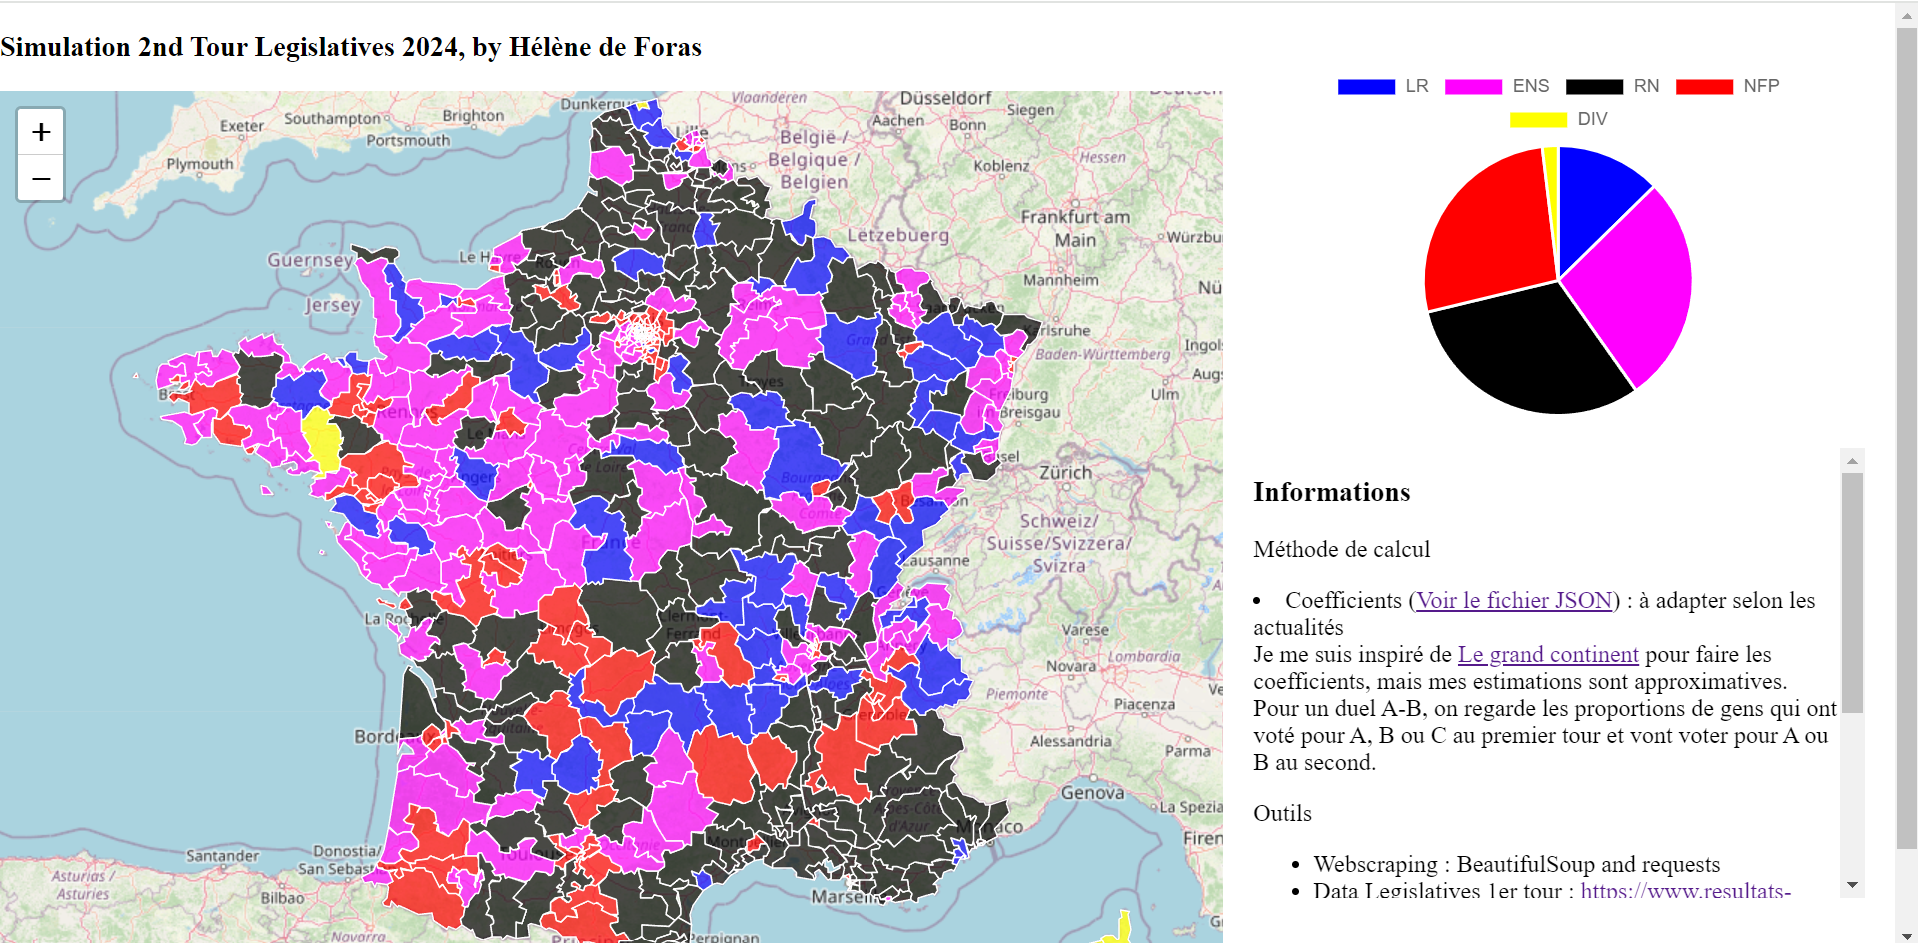
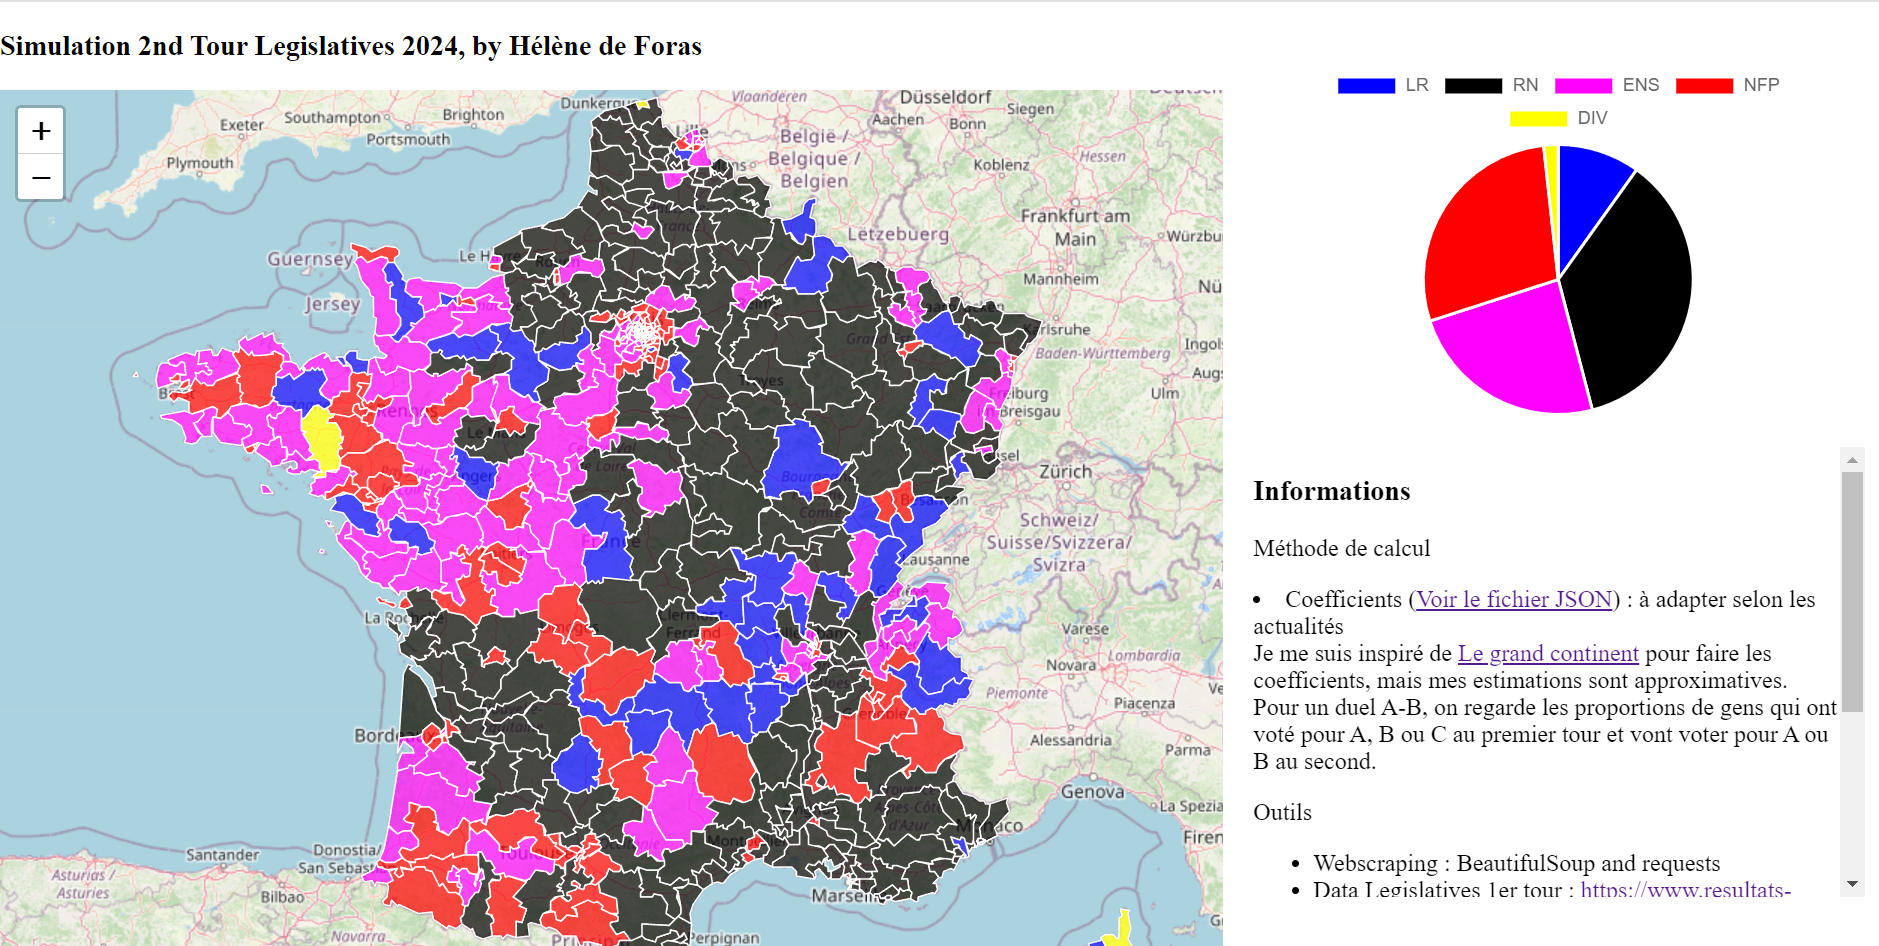
Ajout des desistements

diff --git a/Preprocessing.py b/Preprocessing.py
@@ -43,6 +43,227 @@ class PreprocessingCSV():
     
     def desistements(self):
         df = self.df_nuance
+        df.loc[df["Liste des candidats"] == "M. Sébastien GUERAUD", "Elu(e)"] = -1
+        df.loc[df["Liste des candidats"] == "M. Maxime MEYER", "Elu(e)"] = -1
+        df.loc[df["Liste des candidats"] == "M. Christian JOLIE", "Elu(e)"] = -1
+        df.loc[df["Liste des candidats"] == "Mme Charline LIOTIER", "Elu(e)"] = -1
+        df.loc[df["Liste des candidats"] == "Mme Aline JEUDI", "Elu(e)"] = -1
+        df.loc[df["Liste des candidats"] == "M. Benoit GAUVAN", "Elu(e)"] = -1
+        df.loc[df["Liste des candidats"] == "Mme Dominique BLANC", "Elu(e)"] = -1
+        df.loc[df["Liste des candidats"] == "Mme Pascale BOYER", "Elu(e)"] = -1
+        df.loc[df["Liste des candidats"] == "M. Sébastien FINE", "Elu(e)"] = -1
+        df.loc[df["Liste des candidats"] == "M. Philippe PRADAL", "Elu(e)"] = -1
+        df.loc[df["Liste des candidats"] == "Mme Christine BREYTON", "Elu(e)"] = -1
+        df.loc[df["Liste des candidats"] == "M. Léon THEBAULT", "Elu(e)"] = -1
+        df.loc[df["Liste des candidats"] == "M. Samuel DEGUARA", "Elu(e)"] = -1
+        df.loc[df["Liste des candidats"] == "M. Richard BOUIGUE", "Elu(e)"] = -1
+        df.loc[df["Liste des candidats"] == "M. Jimmy BESSAIH", "Elu(e)"] = -1
+        df.loc[df["Liste des candidats"] == "M. Mohamed LAQHILA", "Elu(e)"] = -1
+        df.loc[df["Liste des candidats"] == "Mme Claire PITOLLAT", "Elu(e)"] = -1
+        df.loc[df["Liste des candidats"] == "M. Allan POPELARD", "Elu(e)"] = -1
+        df.loc[df["Liste des candidats"] == "M. Lionel ROYER-PERREAUT", "Elu(e)"] = -1
+        df.loc[df["Liste des candidats"] == "M. Alexandre BEDDOCK", "Elu(e)"] = -1
+        df.loc[df["Liste des candidats"] == "Mme Ludivine DAOUDI", "Elu(e)"] = -1
+        df.loc[df["Liste des candidats"] == "M. Pierre MOURARET", "Elu(e)"] = -1
+        df.loc[df["Liste des candidats"] == "M. Thomas DUPONT-FEDERICI", "Elu(e)"] = -1
+        df.loc[df["Liste des candidats"] == "M. Noé GAUCHARD", "Elu(e)"] = -1
+        df.loc[df["Liste des candidats"] == "Mme Valérie RUEDA", "Elu(e)"] = -1
+        df.loc[df["Liste des candidats"] == "Mme Carole BALLU", "Elu(e)"] = -1
+        df.loc[df["Liste des candidats"] == "M. Gwenhaël FRANÇOIS", "Elu(e)"] = -1
+        df.loc[df["Liste des candidats"] == "Mme Anne-Laure BABAULT", "Elu(e)"] = -1
+        df.loc[df["Liste des candidats"] == "M. Jean-Philippe ARDOUIN", "Elu(e)"] = -1
+        df.loc[df["Liste des candidats"] == "Mme Anne BRACHET", "Elu(e)"] = -1
+        df.loc[df["Liste des candidats"] == "M. Hugo LEFELLE", "Elu(e)"] = -1
+        df.loc[df["Liste des candidats"] == "M. Gabriel BEHAGHEL", "Elu(e)"] = -1
+        df.loc[df["Liste des candidats"] == "Mme Amandine DEWAELE", "Elu(e)"] = -1
+        df.loc[df["Liste des candidats"] == "M. Benoît BORDAT", "Elu(e)"] = -1
+        df.loc[df["Liste des candidats"] == "Mme Fadila KHATTABI", "Elu(e)"] = -1
+        df.loc[df["Liste des candidats"] == "Mme Valérie JACQ", "Elu(e)"] = -1
+        df.loc[df["Liste des candidats"] == "M. Jérôme FLACHE", "Elu(e)"] = -1
+        df.loc[df["Liste des candidats"] == "M. Jérémy DAUPHIN", "Elu(e)"] = -1
+        df.loc[df["Liste des candidats"] == "M. Antoine RAVARD", "Elu(e)"] = -1
+        df.loc[df["Liste des candidats"] == "M. Cyril JOBIC", "Elu(e)"] = -1
+        df.loc[df["Liste des candidats"] == "M. Clément TONON", "Elu(e)"] = -1
+        df.loc[df["Liste des candidats"] == "M. Michel DELPON", "Elu(e)"] = -1
+        df.loc[df["Liste des candidats"] == "M. Jean-Pierre CUBERTAFON", "Elu(e)"] = -1
+        df.loc[df["Liste des candidats"] == "M. Benoît VUILLEMIN", "Elu(e)"] = -1
+        df.loc[df["Liste des candidats"] == "Mme Virginie DAYET", "Elu(e)"] = -1
+        df.loc[df["Liste des candidats"] == "M. Philippe GAUTIER", "Elu(e)"] = -1
+        df.loc[df["Liste des candidats"] == "M. Nicolas MICHEL", "Elu(e)"] = -1
+        df.loc[df["Liste des candidats"] == "M. Lander MARCHIONNI", "Elu(e)"] = -1
+        df.loc[df["Liste des candidats"] == "Mme Christine LE BONTÉ", "Elu(e)"] = -1
+        df.loc[df["Liste des candidats"] == "M. Pierre-Yves JOURDAIN", "Elu(e)"] = -1
+        df.loc[df["Liste des candidats"] == "M. Jean-François BRIDET", "Elu(e)"] = -1
+        df.loc[df["Liste des candidats"] == "Mme Nadia FAVERIS", "Elu(e)"] = -1
+        df.loc[df["Liste des candidats"] == "M. Pierre SMOLARZ", "Elu(e)"] = -1
+        df.loc[df["Liste des candidats"] == "Mme Gladys GRELAUD", "Elu(e)"] = -1
+        df.loc[df["Liste des candidats"] == "M. Sébastien MIOSSEC", "Elu(e)"] = -1
+        df.loc[df["Liste des candidats"] == "M. Thomas LE BON", "Elu(e)"] = -1
+        df.loc[df["Liste des candidats"] == "M. Erwan CROUAN", "Elu(e)"] = -1
+        df.loc[df["Liste des candidats"] == "Mme Sylvie JOUART", "Elu(e)"] = -1
+        df.loc[df["Liste des candidats"] == "Mme Valérie ROUVERAND", "Elu(e)"] = -1
+        df.loc[df["Liste des candidats"] == "M. Christian BAUME", "Elu(e)"] = -1
+        df.loc[df["Liste des candidats"] == "M. Aurélien COLSON", "Elu(e)"] = -1
+        df.loc[df["Liste des candidats"] == "Mme Sylvie ESPAGNOLLE", "Elu(e)"] = -1
+        df.loc[df["Liste des candidats"] == "Mme Dominique FAURE", "Elu(e)"] = -1
+        df.loc[df["Liste des candidats"] == "Mme Monique IBORRA", "Elu(e)"] = -1
+        df.loc[df["Liste des candidats"] == "Mme Elisabeth TOUTUT-PICARD", "Elu(e)"] = -1
+        df.loc[df["Liste des candidats"] == "M. Pascal LEVIEUX", "Elu(e)"] = -1
+        df.loc[df["Liste des candidats"] == "M. Pascal BOURGOIS", "Elu(e)"] = -1
+        df.loc[df["Liste des candidats"] == "M. Pascal LAVERGNE", "Elu(e)"] = -1
+        df.loc[df["Liste des candidats"] == "M. Stéphane SENCE", "Elu(e)"] = -1
+        df.loc[df["Liste des candidats"] == "Mme Marylène FAURE", "Elu(e)"] = -1
+        df.loc[df["Liste des candidats"] == "Mme Corinne MARTINEZ", "Elu(e)"] = -1
+        df.loc[df["Liste des candidats"] == "Mme Patricia MIRALLES", "Elu(e)"] = -1
+        df.loc[df["Liste des candidats"] == "Mme Laurence CRISTOL", "Elu(e)"] = -1
+        df.loc[df["Liste des candidats"] == "M. Jean-François ELIAOU", "Elu(e)"] = -1
+        df.loc[df["Liste des candidats"] == "M. Patrick VIGNAL", "Elu(e)"] = -1
+        df.loc[df["Liste des candidats"] == "Mme Anne PATAULT", "Elu(e)"] = -1
+        df.loc[df["Liste des candidats"] == "M. Gilles RENAULT", "Elu(e)"] = -1
+        df.loc[df["Liste des candidats"] == "Mme Elsa LAFAYE", "Elu(e)"] = -1
+        df.loc[df["Liste des candidats"] == "M. Nicolas GUIVARC'H", "Elu(e)"] = -1
+        df.loc[df["Liste des candidats"] == "Mme Eloïse GONZALEZ", "Elu(e)"] = -1
+        df.loc[df["Liste des candidats"] == "M. Clément SAPIN", "Elu(e)"] = -1
+        df.loc[df["Liste des candidats"] == "Mme Christelle GOBERT", "Elu(e)"] = -1
+        df.loc[df["Liste des candidats"] == "Mme Sandra BARBIER", "Elu(e)"] = -1
+        df.loc[df["Liste des candidats"] == "Mme Fabienne COLBOC", "Elu(e)"] = -1
+        df.loc[df["Liste des candidats"] == "Mme Marina COCCIA", "Elu(e)"] = -1
+        df.loc[df["Liste des candidats"] == "Mme Marjolaine MEYNIER-MILLEFERT", "Elu(e)"] = -1
+        df.loc[df["Liste des candidats"] == "Mme Louve CARRIÈRE", "Elu(e)"] = -1
+        df.loc[df["Liste des candidats"] == "Mme Émilie CHALAS", "Elu(e)"] = -1
+        df.loc[df["Liste des candidats"] == "M. Jean-Charles COLAS-ROY", "Elu(e)"] = -1
+        df.loc[df["Liste des candidats"] == "Mme Dominique DICHARD", "Elu(e)"] = -1
+        df.loc[df["Liste des candidats"] == "Mme Caroline ABADIE", "Elu(e)"] = -1
+        df.loc[df["Liste des candidats"] == "Mme Élodie JACQUIER-LAFORGE", "Elu(e)"] = -1
+        df.loc[df["Liste des candidats"] == "M. Anthony BRONDEL", "Elu(e)"] = -1
+        df.loc[df["Liste des candidats"] == "Mme Evelyne TERNANT", "Elu(e)"] = -1
+        df.loc[df["Liste des candidats"] == "M. Hervé PRAT", "Elu(e)"] = -1
+        df.loc[df["Liste des candidats"] == "Mme Marie-Laure LAFARGUE", "Elu(e)"] = -1
+        df.loc[df["Liste des candidats"] == "M. Jean-Marc LESPADE", "Elu(e)"] = -1
+        df.loc[df["Liste des candidats"] == "M. Noé PETIT", "Elu(e)"] = -1
+        df.loc[df["Liste des candidats"] == "M. Quentin BATAILLON", "Elu(e)"] = -1
+        df.loc[df["Liste des candidats"] == "M. Vincent BONY", "Elu(e)"] = -1
+        df.loc[df["Liste des candidats"] == "M. Bernard PAEMELAERE", "Elu(e)"] = -1
+        df.loc[df["Liste des candidats"] == "Mme Celline GACON", "Elu(e)"] = -1
+        df.loc[df["Liste des candidats"] == "M. Andre Antoine Célestin CHAPAVEIRE", "Elu(e)"] = -1
+        df.loc[df["Liste des candidats"] == "Mme Véronique MAHÉ", "Elu(e)"] = -1
+        df.loc[df["Liste des candidats"] == "Mme Audrey DUFEU", "Elu(e)"] = -1
+        df.loc[df["Liste des candidats"] == "Mme Hélène MACON", "Elu(e)"] = -1
+        df.loc[df["Liste des candidats"] == "Mme Ghislaine KOUNOWSKI", "Elu(e)"] = -1
+        df.loc[df["Liste des candidats"] == "Mme Caroline JANVIER", "Elu(e)"] = -1
+        df.loc[df["Liste des candidats"] == "M. Clément VERDE", "Elu(e)"] = -1
+        df.loc[df["Liste des candidats"] == "Mme Anne-Laure BOUTET", "Elu(e)"] = -1
+        df.loc[df["Liste des candidats"] == "M. Christophe LAVIALLE", "Elu(e)"] = -1
+        df.loc[df["Liste des candidats"] == "M. Paul VO VAN", "Elu(e)"] = -1
+        df.loc[df["Liste des candidats"] == "M. Jean-Marie LENZI", "Elu(e)"] = -1
+        df.loc[df["Liste des candidats"] == "M. Patrick ALEXANDRE", "Elu(e)"] = -1
+        df.loc[df["Liste des candidats"] == "Mme Charlyne BOUVET", "Elu(e)"] = -1
+        df.loc[df["Liste des candidats"] == "Mme Sylvie GABIN", "Elu(e)"] = -1
+        df.loc[df["Liste des candidats"] == "Mme Gaëlle VEROVE", "Elu(e)"] = -1
+        df.loc[df["Liste des candidats"] == "Mme Evelyne BOURGOIN", "Elu(e)"] = -1
+        df.loc[df["Liste des candidats"] == "M. Stéphane PIROUELLE", "Elu(e)"] = -1
+        df.loc[df["Liste des candidats"] == "M. Benjamin LAMBERT", "Elu(e)"] = -1
+        df.loc[df["Liste des candidats"] == "M. Vincent SAULNIER", "Elu(e)"] = -1
+        df.loc[df["Liste des candidats"] == "M. Grégory BOISSEAU", "Elu(e)"] = -1
+        df.loc[df["Liste des candidats"] == "Mme Stéphanie LEFOULON", "Elu(e)"] = -1
+        df.loc[df["Liste des candidats"] == "M. Philippe GUILLEMARD", "Elu(e)"] = -1
+        df.loc[df["Liste des candidats"] == "Mme Barbara BERTOZZI-BIÉVELOT", "Elu(e)"] = -1
+        df.loc[df["Liste des candidats"] == "Mme Anne GALLO", "Elu(e)"] = -1
+        df.loc[df["Liste des candidats"] == "Mme Jade BENIGUEL", "Elu(e)"] = -1
+        df.loc[df["Liste des candidats"] == "Mme Marie Madeleine DORÉ-LUCAS", "Elu(e)"] = -1
+        df.loc[df["Liste des candidats"] == "M. Jean-Michel BAUDRY", "Elu(e)"] = -1
+        df.loc[df["Liste des candidats"] == "M. Vincent FELIX", "Elu(e)"] = -1
+        df.loc[df["Liste des candidats"] == "M. Victorien NICOLAS", "Elu(e)"] = -1
+        df.loc[df["Liste des candidats"] == "Mme Charlotte LEDUC", "Elu(e)"] = -1
+        df.loc[df["Liste des candidats"] == "Mme Brigitte VAÎSSE", "Elu(e)"] = -1
+        df.loc[df["Liste des candidats"] == "M. Brice LARÈPE", "Elu(e)"] = -1
+        df.loc[df["Liste des candidats"] == "Mme Sandra GERMAIN", "Elu(e)"] = -1
+        df.loc[df["Liste des candidats"] == "M. Leslie MORTREUX", "Elu(e)"] = -1
+        df.loc[df["Liste des candidats"] == "Mme Ingrid BRULANT-FORTIN", "Elu(e)"] = -1
+        df.loc[df["Liste des candidats"] == "M. Damien LACROIX", "Elu(e)"] = -1
+        df.loc[df["Liste des candidats"] == "M. Pierrick COLPIN", "Elu(e)"] = -1
+        df.loc[df["Liste des candidats"] == "Mme Ophélie DELNESTE", "Elu(e)"] = -1
+        df.loc[df["Liste des candidats"] == "Mme Célia PEREIRA", "Elu(e)"] = -1
+        df.loc[df["Liste des candidats"] == "M. Baptiste DE FRESSE DE MONVAL", "Elu(e)"] = -1
+        df.loc[df["Liste des candidats"] == "Mme Patricia CHAPELOTTE", "Elu(e)"] = -1
+        df.loc[df["Liste des candidats"] == "M. Lori HELLOCO", "Elu(e)"] = -1
+        df.loc[df["Liste des candidats"] == "M. Alexandre COUSIN", "Elu(e)"] = -1
+        df.loc[df["Liste des candidats"] == "M. Jean-Pierre PONT", "Elu(e)"] = -1
+        df.loc[df["Liste des candidats"] == "Mme Valérie GOLÉO", "Elu(e)"] = -1
+        df.loc[df["Liste des candidats"] == "M. Jean-Yves LALANNE", "Elu(e)"] = -1
+        df.loc[df["Liste des candidats"] == "M. Julien BRUNEL", "Elu(e)"] = -1
+        df.loc[df["Liste des candidats"] == "Mme Florence LASSERRE", "Elu(e)"] = -1
+        df.loc[df["Liste des candidats"] == "M. Jean-Bernard SEMPASTOUS", "Elu(e)"] = -1
+        df.loc[df["Liste des candidats"] == "M. Benoit MOURNET", "Elu(e)"] = -1
+        df.loc[df["Liste des candidats"] == "Mme Laurence GAYTE", "Elu(e)"] = -1
+        df.loc[df["Liste des candidats"] == "Mme Raphaële KRATTINGER", "Elu(e)"] = -1
+        df.loc[df["Liste des candidats"] == "Mme Nadia EL HAJJAJI", "Elu(e)"] = -1
+        df.loc[df["Liste des candidats"] == "Mme Florence CLAUDEPIERRE", "Elu(e)"] = -1
+        df.loc[df["Liste des candidats"] == "Mme Florence Janine Jacqueline PERRIN", "Elu(e)"] = -1
+        df.loc[df["Liste des candidats"] == "M. Dominique DESPRAS", "Elu(e)"] = -1
+        df.loc[df["Liste des candidats"] == "M. Abdel YOUSFI", "Elu(e)"] = -1
+        df.loc[df["Liste des candidats"] == "Mme Sarah TANZILLI", "Elu(e)"] = -1
+        df.loc[df["Liste des candidats"] == "M. Dominique DESPRAS", "Elu(e)"] = -1
+        df.loc[df["Liste des candidats"] == "M. Jean-Henri SOUMIREU-LARTIGUE", "Elu(e)"] = -1
+        df.loc[df["Liste des candidats"] == "M. Jean-Luc DELPEUCH", "Elu(e)"] = -1
+        df.loc[df["Liste des candidats"] == "M. Richard BENINGER", "Elu(e)"] = -1
+        df.loc[df["Liste des candidats"] == "M. Anthony VADOT", "Elu(e)"] = -1
+        df.loc[df["Liste des candidats"] == "M. Louis MARGUERITTE", "Elu(e)"] = -1
+        df.loc[df["Liste des candidats"] == "Mme Ghislaine BONNET", "Elu(e)"] = -1
+        df.loc[df["Liste des candidats"] == "M. Samuel CHEVALLIER", "Elu(e)"] = -1
+        df.loc[df["Liste des candidats"] == "Mme Sylvie CASENAVE-PÉRÉ", "Elu(e)"] = -1
+        df.loc[df["Liste des candidats"] == "M. Christophe ROUILLON", "Elu(e)"] = -1
+        df.loc[df["Liste des candidats"] == "Mme Christel GRANATA", "Elu(e)"] = -1
+        df.loc[df["Liste des candidats"] == "Mme Pascale MARTINOT", "Elu(e)"] = -1
+        df.loc[df["Liste des candidats"] == "Mme Anaïs GOMERO", "Elu(e)"] = -1
+        df.loc[df["Liste des candidats"] == "Mme Anne-Valérie DUVAL", "Elu(e)"] = -1
+        df.loc[df["Liste des candidats"] == "M. Guillaume TATU", "Elu(e)"] = -1
+        df.loc[df["Liste des candidats"] == "M. Gérard VEZ", "Elu(e)"] = -1
+        df.loc[df["Liste des candidats"] == "Mme Dominique LACHENAL", "Elu(e)"] = -1
+        df.loc[df["Liste des candidats"] == "M. Jean-Baptiste BAUD", "Elu(e)"] = -1
+        df.loc[df["Liste des candidats"] == "M. Alain ROUBIAN", "Elu(e)"] = -1
+        df.loc[df["Liste des candidats"] == "M. Vincent DECORDE", "Elu(e)"] = -1
+        df.loc[df["Liste des candidats"] == "M. Laurent BONNATERRE", "Elu(e)"] = -1
+        df.loc[df["Liste des candidats"] == "M. Jean DELALANDRE", "Elu(e)"] = -1
+        df.loc[df["Liste des candidats"] == "Mme Florence MARTIN PÉRÉON", "Elu(e)"] = -1
+        df.loc[df["Liste des candidats"] == "Mme Nour BENAÏSSA WATBOT", "Elu(e)"] = -1
+        df.loc[df["Liste des candidats"] == "Mme Albane BRANLANT", "Elu(e)"] = -1
+        df.loc[df["Liste des candidats"] == "Mme Margot LAPEYRE", "Elu(e)"] = -1
+        df.loc[df["Liste des candidats"] == "M. Pierre VERDIER", "Elu(e)"] = -1
+        df.loc[df["Liste des candidats"] == "M. Julien LASSALLE", "Elu(e)"] = -1
+        df.loc[df["Liste des candidats"] == "M. Eric HABOUZIT", "Elu(e)"] = -1
+        df.loc[df["Liste des candidats"] == "Mme Sylvie VIALA", "Elu(e)"] = -1
+        df.loc[df["Liste des candidats"] == "M. Adrien MORENAS", "Elu(e)"] = -1
+        df.loc[df["Liste des candidats"] == "Mme Lucie ETONNO", "Elu(e)"] = -1
+        df.loc[df["Liste des candidats"] == "M. Nicolas HELARY", "Elu(e)"] = -1
+        df.loc[df["Liste des candidats"] == "M. Pierre-Hugues FOURAGE", "Elu(e)"] = -1
+        df.loc[df["Liste des candidats"] == "Mme Gisèle JEAN", "Elu(e)"] = -1
+        df.loc[df["Liste des candidats"] == "M. Yves TROUSSELLE", "Elu(e)"] = -1
+        df.loc[df["Liste des candidats"] == "Mme Marie-Eve TAYOT", "Elu(e)"] = -1
+        df.loc[df["Liste des candidats"] == "M. Philippe VEYSSIERE", "Elu(e)"] = -1
+        df.loc[df["Liste des candidats"] == "Mme Marie-Eve BELORGEY", "Elu(e)"] = -1
+        df.loc[df["Liste des candidats"] == "M. Sébastien MEURANT", "Elu(e)"] = -1
+        df.loc[df["Liste des candidats"] == "Mme Sophie CHARLES", "Elu(e)"] = -1
+        df.loc[df["Liste des candidats"] == "M. Gilles LE GENDRE", "Elu(e)"] = -1
+        df.loc[df["Liste des candidats"] == "Mme Théa FOUDRINIER", "Elu(e)"] = -1
+        df.loc[df["Liste des candidats"] == "Mme Laura VALLÉE-HANS", "Elu(e)"] = -1
+        df.loc[df["Liste des candidats"] == "M. Mathieu GARNIER", "Elu(e)"] = -1
+        df.loc[df["Liste des candidats"] == "Mme Laurie CAENBERGS", "Elu(e)"] = -1
+        df.loc[df["Liste des candidats"] == "M. Régis SARAZIN", "Elu(e)"] = -1
+        df.loc[df["Liste des candidats"] == "Mme Michèle PEYRON", "Elu(e)"] = -1
+        df.loc[df["Liste des candidats"] == "M. Thomas CIANO", "Elu(e)"] = -1
+        df.loc[df["Liste des candidats"] == "M. Bruno MILLIENNE", "Elu(e)"] = -1
+        df.loc[df["Liste des candidats"] == "Mme Naïma SIFER", "Elu(e)"] = -1
+        df.loc[df["Liste des candidats"] == "M. Alexis IZARD", "Elu(e)"] = -1
+        df.loc[df["Liste des candidats"] == "M. Amadou DEME", "Elu(e)"] = -1
+        df.loc[df["Liste des candidats"] == "Mme Hella KRIBI - ROMDHANE", "Elu(e)"] = -1
+        df.loc[df["Liste des candidats"] == "Mme Marie GUÉVENOUX", "Elu(e)"] = -1
+        df.loc[df["Liste des candidats"] == "Mme Raquel GARRIDO", "Elu(e)"] = -1
+        df.loc[df["Liste des candidats"] == "M. Frédéric DESCROZAILLE", "Elu(e)"] = -1
+        df.loc[df["Liste des candidats"] == "M. Guillaume VUILLETET", "Elu(e)"] = -1
+        df.loc[df["Liste des candidats"] == "Mme Cécile RILHAC", "Elu(e)"] = -1
+        df.loc[df["Liste des candidats"] == "M. Dominique DA SILVA", "Elu(e)"] = -1
+
         return df
 
 
